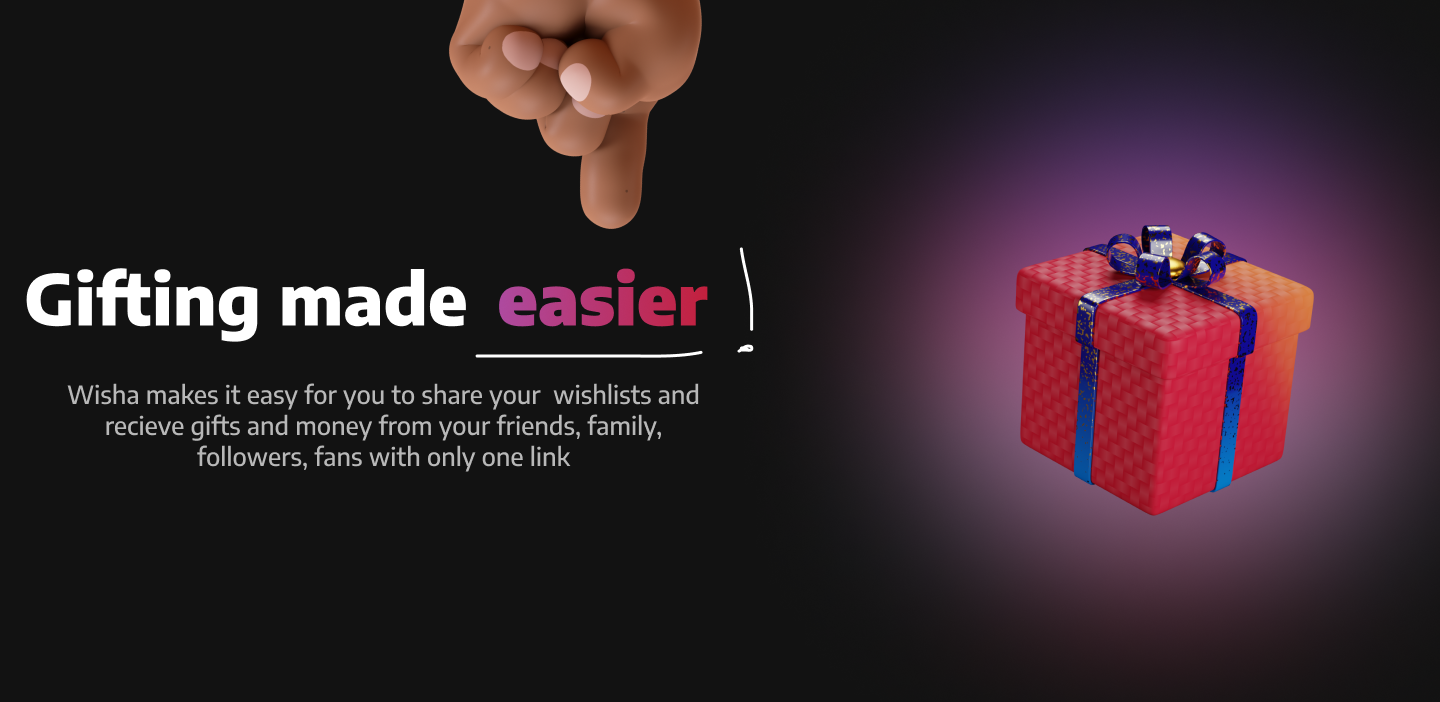
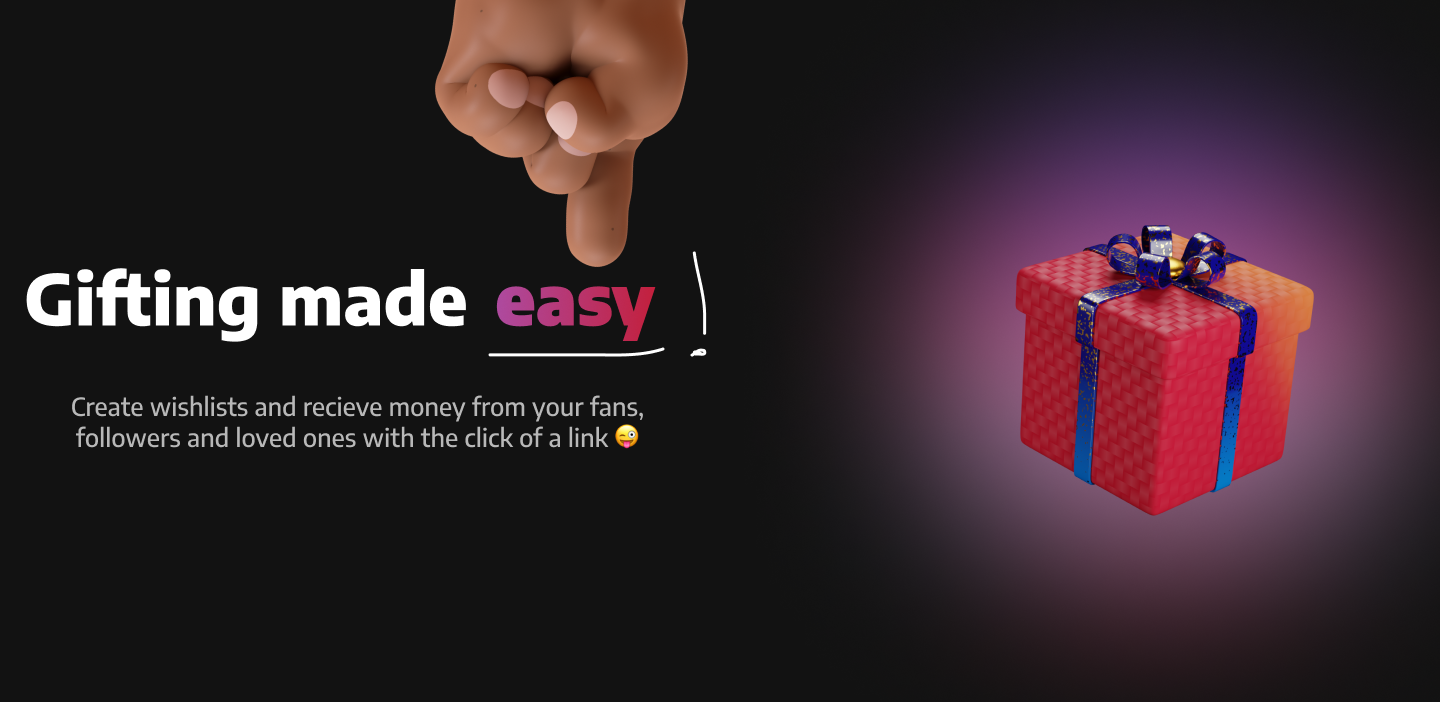
Changed wishapreview.png

Changed region(s): [[0.2812, 0.0, 0.5312, 0.5085], [0.0312, 0.5385, 0.5, 0.688]]

diff --git a/public/index.html b/public/index.html
@@ -16,17 +16,17 @@
 
     <!-- Open Graph / Facebook -->
     <meta property="og:type" content="website">
-    <meta property="og:url" content="https://wishaa.herokuapp.com/">
+    <meta property="og:url" content="https://iamronaldosunmu.github.io/Wisha">
     <meta property="og:title" content="Wisha - Gifting made easier">
     <meta property="og:description" content="Gifting made easier">
-    <meta property="og:image" content="https://wishaa.herokuapp.com/wishapreview.png">
+    <meta property="og:image" content="%PUBLIC_URL%/wishapreview.png">
 
     <!-- Twitter -->
     <meta property="twitter:card" content="summary_large_image">
-    <meta property="twitter:url" content="https://wishaa.herokuapp.com/">
+    <meta property="twitter:url" content="https://iamronaldosunmu.github.io/Wisha">
     <meta property="twitter:title" content="Wisha - Gifting made easier">
     <meta property="twitter:description" content="Gifting made easier">
-    <meta property="twitter:image" content="https://wishaa.herokuapp.com/wishapreview.png">
+    <meta property="twitter:image" content="%PUBLIC_URL%/wishapreview.png">
 
     <!--
       manifest.json provides metadata used when your web app is added to the

diff --git a/src/styles.css b/src/styles.css
@@ -440,7 +440,7 @@ body {
   position: absolute;
   transform: scale(0.7);
   top: -100px;
-  left: 305px;
+  left: 285px;
 }
 @media screen and (max-width: 1150px) {
   .finger {
